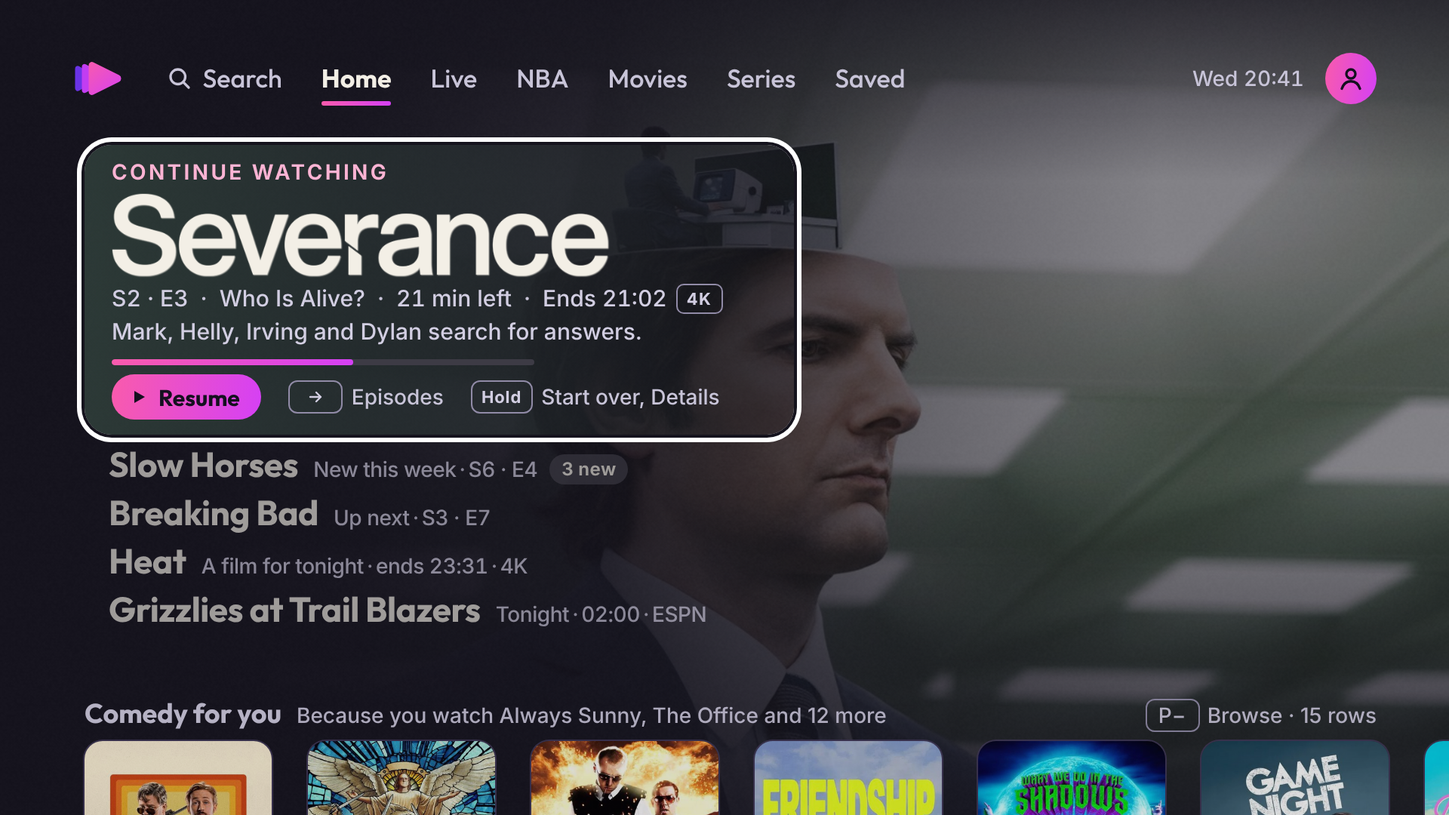
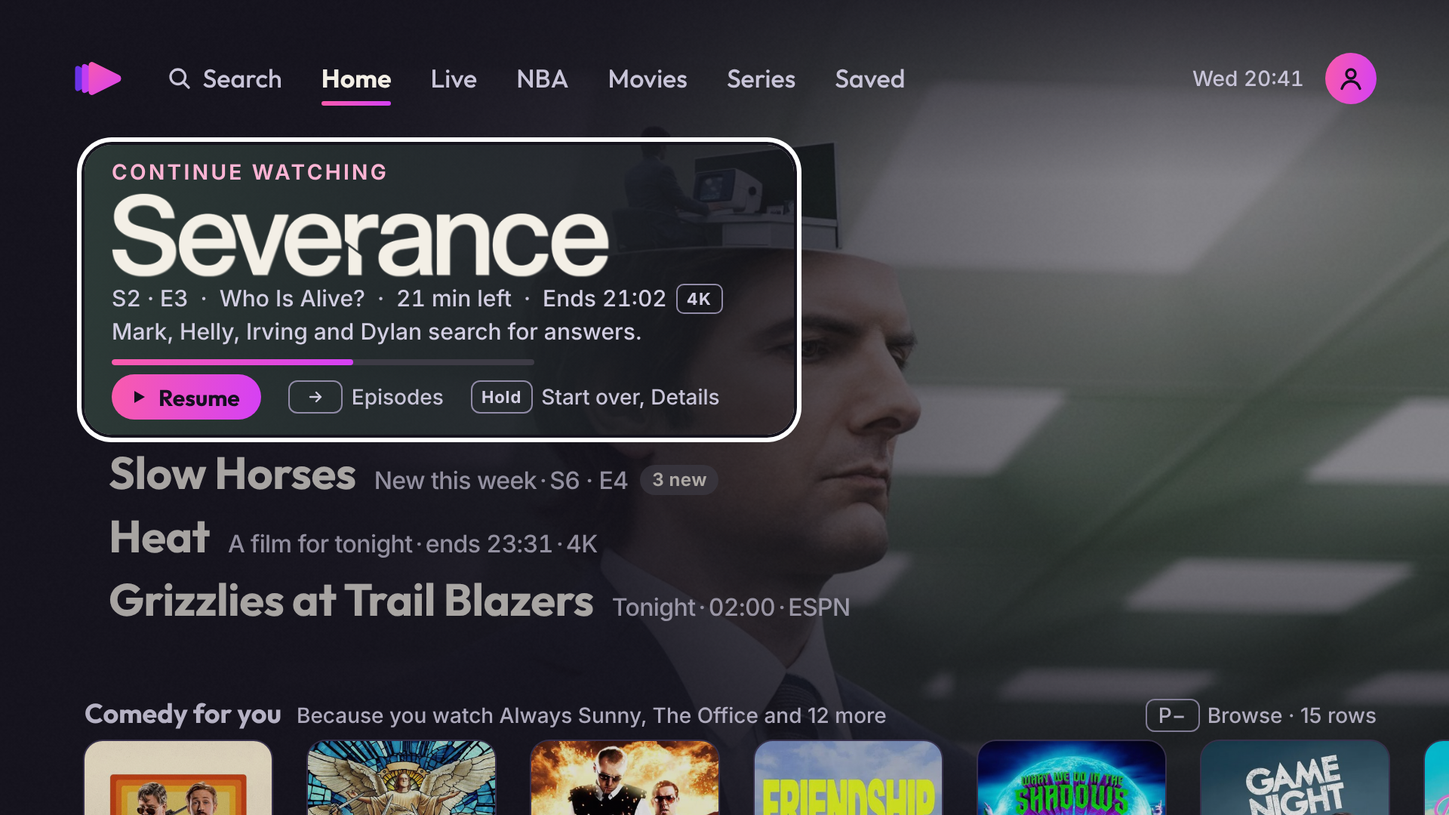
Home final v1.1: the lineup is three big lines (four on a game day), the lit one open as its card in place; the rows are 3 Downs away (4 on a game day, 1 with P-), the counts before and after in the SPEC

Changed region(s): [[0.0625, 0.55, 0.5938, 0.7639]]

diff --git a/design/ui-v1/home-final/tools/build.js b/design/ui-v1/home-final/tools/build.js
@@ -49,7 +49,6 @@ const firstPeek = (title, sub, cards) => `<div class="peek first"><div class="rt
 const LINES = (lit, cardHtml) => [
   ['Severance', `Continue${dot}S2 · E3${dot}21 min left`],
   ['Slow Horses', `New this week${dot}S6 · E4<span class="count">3 new</span>`],
-  ['Breaking Bad', `Up next${dot}S3 · E7`],
   ['Heat', `A film for tonight${dot}ends ${ends('20:41', 170)}${dot}4K`],
   ['Grizzlies at Trail Blazers', `Tonight${dot}02:00${dot}ESPN`],
 ].map(([n, f], i) => (i === lit ? cardHtml : line(n, f))).join('');
@@ -120,9 +119,9 @@ const gameNight = () => head('Home, game night', `
   meta: `<span>On now</span>${dot}<span>ESPN</span><span class="badge">4K</span>${dot}${EYE}<span>Score hidden</span>`,
   line: '3rd in the West · 3 in a row · Morant 27.8 · as of tip-off',
   hint: `<span class="pill">${PLAY}Watch live</span><span>${ARROW_R}From tip-off</span><span><span class="k">Hold</span>Reveal, more</span>` }) +
-`${line('Severance', `Continue${dot}S2 · E3${dot}21 min left`)}${line('Slow Horses', `New this week${dot}S6 · E4<span class="count">3 new</span>`)}${line('It’s Always Sunny', `Short${dot}S18 · E10${dot}25 min`)}${line('Nuggets at Thunder', `Also live${dot}Prime Video`)}</div>
+`${line('Severance', `Continue${dot}S2 · E3${dot}21 min left`)}${line('Slow Horses', `New this week${dot}S6 · E4<span class="count">3 new</span>`)}${line('It’s Always Sunny', `Short${dot}S18 · E10${dot}25 min`)}</div>
 ` +
-firstPeek('Tonight in the NBA', '6 games · 1 live · 2 final · 3 later', [gameCard({ mine: true, ta: '#5D76A9', st: 'Your team · live', a: 'mem', an: 'Grizzlies', sep: 'at', h: 'por', hn: 'Blazers', ch: 'ESPN · 4K', pl: 'Score hidden' }), gameCard({ ta: '#FEC524', st: 'Live', a: 'den', an: 'Nuggets', sep: 'at', h: 'okc', hn: 'Thunder', ch: 'Prime Video', pl: '3RD' }), gameCard({ ta: '#BA9653', st: 'Final', a: 'bos', an: 'Celtics', sep: 'at', h: 'ny', hn: 'Knicks', ch: '', pl: '112 – 104' })]) + foot;
+firstPeek('Tonight in the NBA', '6 games · 2 live · 2 final · 2 later', [gameCard({ mine: true, ta: '#5D76A9', st: 'Your team · live', a: 'mem', an: 'Grizzlies', sep: 'at', h: 'por', hn: 'Blazers', ch: 'ESPN · 4K', pl: 'Score hidden' }), gameCard({ ta: '#FEC524', st: 'Live', a: 'den', an: 'Nuggets', sep: 'at', h: 'okc', hn: 'Thunder', ch: 'Prime Video', pl: '3RD' }), gameCard({ ta: '#BA9653', st: 'Final', a: 'bos', an: 'Celtics', sep: 'at', h: 'ny', hn: 'Knicks', ch: '', pl: '112 – 104' })]) + foot;
 
 // ---------------------------------------------------------------- 5. the library: Movies, Comedy, scrolled deep (#313 is the first cell of its row: 313 = 52 x 6 + 1)
 const LIB = [['stepbrothers', 'Step Brothers', '2008 · 1h 38m'], ['superbad', 'Superbad', '2007 · 1h 53m'], ['lebowski', 'The Big Lebowski', '1998 · 1h 57m'], ['holdovers', 'The Holdovers', '2023 · 2h 13m'], ['popstar', 'Popstar', '2016 · 1h 27m'], ['officespace', 'Office Space', '1999 · 1h 29m'],
@@ -140,7 +139,7 @@ const coldStart = () => head('Home, first evening: no history yet') + `<div clas
   meta: `<span>2026</span>${dot}<span>2h 37m</span>${dot}<span>Ends ${ends('20:41', 157)}</span>${dot}<span>IMDb 8.2</span>`,
   line: 'A science teacher wakes up alone on a spaceship. As his memory returns, he uncovers an impossible task.',
   hint: `<span class="pill noicon">Details</span><span>${ARROW_R}More popular films</span><span><span class="k">Hold</span>Play now, Save</span>` }) +
-`${line('Grizzlies at Trail Blazers', `Your team${dot}Tonight 02:00${dot}ESPN`)}${line('Kastljós', `On now${dot}RÚV${dot}until 20:55`)}${line('Pick what you like', `3 genres start your rows`)}</div>
+`${line('Grizzlies at Trail Blazers', `Your team${dot}Tonight 02:00${dot}ESPN`)}${line('Pick what you like', `3 genres start your rows`)}</div>
 ` +
 firstPeek('Popular films', 'Popular on Cinemeta', ['toystory5', 'weapons', 'superman', 'onebattle', 'sinners', 'f1', 'mickey17'].map((f) => poster(f))) + foot;
 
@@ -200,12 +199,12 @@ peek('Comedy for you', 'Because you watch Always Sunny, The Office and 12 more',
 const pages = { '01-evening.html': evening(), '02-rows-comedy.html': rowsComedy(), '03-rows-blend.html': rowsBlend(), '04-game-night.html': gameNight(), '05-library-comedy.html': library(), '06-cold-start.html': coldStart(), '07-rows-channels.html': channel(), '08-loading-missing-art.html': loading(), '09-rows-continue.html': rowsContinue(), '10-rows-nba.html': rowsNba() };
 for (const [f, html] of Object.entries(pages)) fs.writeFileSync(path.join(root, f), html);
 fs.writeFileSync(path.join(root, 'tools', 'pages.json'), JSON.stringify([
-  { file: '01-evening.html', title: 'A normal evening', note: 'Wed 20:41 · the Marquee: five lines (the game is tonight), the lit line open as its card in place, the first row peeking; P− jumps to the rows' },
+  { file: '01-evening.html', title: 'A normal evening', note: 'Wed 20:41 · the Marquee: four big lines (the game is tonight), the lit one open as its card in place, the first row peeking; 4 Downs or P− reach the rows' },
   { file: '02-rows-comedy.html', title: 'The rows: Comedy for you', note: 'Down from the lineup · films and series together · the picture answers the poster · the row index on its backing' },
   { file: '03-rows-blend.html', title: 'The rows: Anime comedy', note: 'A blend row: two of his genres together, named plainly, marked New row for a week' },
   { file: '04-game-night.html', title: 'Game night', note: 'Thu 03:12 · Grizzlies at Trail Blazers live, shield on: ON NOW, no clock, records as of tip-off' },
   { file: '05-library-comedy.html', title: 'Movies: Comedy, deep', note: 'The add-on library: one long Cinemeta scroll per genre, #313 of 3,000+' },
-  { file: '06-cold-start.html', title: 'First evening', note: 'No history: a popular pick (Details), the team, the channel, Pick what you like' },
+  { file: '06-cold-start.html', title: 'First evening', note: 'No history: a popular pick (Details), the team, Pick what you like; three lines' },
   { file: '07-rows-channels.html', title: 'The rows: Channels', note: 'A channel has no picture: its logo on a flat field, the programme’s progress and what is next; wide channel cards' },
   { file: '08-loading-missing-art.html', title: 'Missing art', note: 'A title without a backdrop (its poster upright on a flat ground), posters loading, a title with no poster' },
   { file: '09-rows-continue.html', title: 'The rows: Your shows', note: 'Continue watching and new episodes in one wide-card row (they are also the Marquee’s lines); New this year peeks' },

diff --git a/design/ui-v1/home-final/home-final.css b/design/ui-v1/home-final/home-final.css
@@ -40,11 +40,11 @@ html, body { margin: 0; width: 960px; height: 540px; overflow: hidden; backgroun
 .count { display: inline-flex; align-items: center; height: 20px; padding: 0 8px; border-radius: 999px; background: var(--a-surface-2); color: var(--a-text-1); font: 650 12px/1 var(--a-font-text); margin-left: 8px; letter-spacing: .02em; }
 .dot { color: var(--a-text-3); margin: 0 2px; }
 
-/* ---- the lineup: lines in fixed 32 px slots; the lit line opens into its card in place (fixed 192 px, so every press moves the lines below by the same 168 px, animated with a 200 ms transform) ---- */
+/* ---- the lineup: 3 lines (4 on a game day) in 42 px slots; the lit line opens into its card in place (fixed 192 px + 4 px margins, so every press moves the lines below by the same 158 px, animated with a 200 ms transform) ---- */
 .lineup { left: 56px; top: 92px; width: 470px; display: flex; flex-direction: column; gap: 0; }
-.e { position: relative; height: 32px; box-sizing: border-box; padding: 2px 16px; border-radius: 10px; opacity: .62; display: flex; align-items: center; }
-.e .t { font: 700 23px/26px var(--a-font-display); color: var(--a-text-1); white-space: nowrap; letter-spacing: -.01em; display: flex; align-items: baseline; }
-.e .t small { font: 500 14px/18px var(--a-font-text); color: var(--a-text-2); margin-left: 10px; font-variant-numeric: tabular-nums; display: inline-flex; align-items: center; }
+.e { position: relative; height: 42px; box-sizing: border-box; padding: 2px 16px; border-radius: 10px; opacity: .66; display: flex; align-items: center; }
+.e .t { font: 700 30px/34px var(--a-font-display); color: var(--a-text-1); white-space: nowrap; letter-spacing: -.01em; display: flex; align-items: baseline; }
+.e .t small { font: 500 16px/20px var(--a-font-text); color: var(--a-text-2); margin-left: 12px; font-variant-numeric: tabular-nums; display: inline-flex; align-items: center; }
 .e.on { opacity: 1; display: block; height: 192px; margin: 4px 0; padding: 10px 18px; border-radius: 18px; box-shadow: var(--a-focus-ring); background: linear-gradient(90deg, var(--ambt, rgba(21,19,29,.45)), rgba(21,19,29,.22)); overflow: hidden; }
 .e.on .ey { font: 650 14px/16px var(--a-font-text); letter-spacing: .12em; text-transform: uppercase; color: var(--a-pink-text); display: flex; align-items: center; gap: 10px; white-space: nowrap; }
 .e.on .logo { display: block; height: 56px; max-width: 340px; width: auto; object-fit: contain; object-position: left center; margin: 6px 0 4px; }

diff --git a/design/ui-v1/home-final/04-game-night.html b/design/ui-v1/home-final/04-game-night.html
@@ -32,9 +32,8 @@
   <div class="e"><div class="t">Severance<small>Continue<span class="dot">·</span>S2 · E3<span class="dot">·</span>21 min left</small></div></div>
   <div class="e"><div class="t">Slow Horses<small>New this week<span class="dot">·</span>S6 · E4<span class="count">3 new</span></small></div></div>
   <div class="e"><div class="t">It’s Always Sunny<small>Short<span class="dot">·</span>S18 · E10<span class="dot">·</span>25 min</small></div></div>
-  <div class="e"><div class="t">Nuggets at Thunder<small>Also live<span class="dot">·</span>Prime Video</small></div></div>
 </div>
-<div class="peek first"><div class="rt">Tonight in the NBA<span>6 games · 1 live · 2 final · 3 later</span><span class="pk"><span class="k">P−</span>Browse · 15 rows</span></div><div class="cards"><div class="gc" style="--ta:#5D76A9"><div class="ed"></div><div class="st mine">Your team · live</div>
+<div class="peek first"><div class="rt">Tonight in the NBA<span>6 games · 2 live · 2 final · 2 later</span><span class="pk"><span class="k">P−</span>Browse · 15 rows</span></div><div class="cards"><div class="gc" style="--ta:#5D76A9"><div class="ed"></div><div class="st mine">Your team · live</div>
   <div class="tm"><span class="cr"><img src="art/mem.png" alt=""></span><b>Grizzlies</b><span class="vs">at</span><span class="cr"><img src="art/por.png" alt=""></span><b>Blazers</b></div>
   <div class="ch">ESPN · 4K</div><div class="pl tip">Score hidden</div></div><div class="gc" style="--ta:#FEC524"><div class="ed"></div><div class="st">Live</div>
   <div class="tm"><span class="cr"><img src="art/den.png" alt=""></span><b>Nuggets</b><span class="vs">at</span><span class="cr"><img src="art/okc.png" alt=""></span><b>Thunder</b></div>

diff --git a/design/ui-v1/home-final/06-cold-start.html b/design/ui-v1/home-final/06-cold-start.html
@@ -21,7 +21,6 @@
   <div class="hint"><span class="pill noicon">Details</span><span><span class="k"><svg viewBox="0 0 24 24"><path d="M5 12h14M13 6l6 6-6 6"/></svg></span>More popular films</span><span><span class="k">Hold</span>Play now, Save</span></div>
   </div>
   <div class="e"><div class="t">Grizzlies at Trail Blazers<small>Your team<span class="dot">·</span>Tonight 02:00<span class="dot">·</span>ESPN</small></div></div>
-  <div class="e"><div class="t">Kastljós<small>On now<span class="dot">·</span>RÚV<span class="dot">·</span>until 20:55</small></div></div>
   <div class="e"><div class="t">Pick what you like<small>3 genres start your rows</small></div></div>
 </div>
 <div class="peek first"><div class="rt">Popular films<span>Popular on Cinemeta</span><span class="pk"><span class="k">P−</span>Browse · 15 rows</span></div><div class="cards"><div class="poster"><img src="art/toystory5-poster.jpg" alt=""></div><div class="poster"><img src="art/weapons-poster.jpg" alt=""></div><div class="poster"><img src="art/superman-poster.jpg" alt=""></div><div class="poster"><img src="art/onebattle-poster.jpg" alt=""></div><div class="poster"><img src="art/sinners-poster.jpg" alt=""></div><div class="poster"><img src="art/f1-poster.jpg" alt=""></div><div class="poster"><img src="art/mickey17-poster.jpg" alt=""></div></div></div>

diff --git a/design/ui-v1/home-final/01-evening.html b/design/ui-v1/home-final/01-evening.html
@@ -20,7 +20,6 @@
   <div class="hint"><span class="pill"><svg viewBox="0 0 24 24"><path d="M6 4l14 8-14 8z"/></svg>Resume</span><span><span class="k"><svg viewBox="0 0 24 24"><path d="M5 12h14M13 6l6 6-6 6"/></svg></span>Episodes</span><span><span class="k">Hold</span>Start over, Details</span></div>
   </div>
   <div class="e"><div class="t">Slow Horses<small>New this week<span class="dot">·</span>S6 · E4<span class="count">3 new</span></small></div></div>
-  <div class="e"><div class="t">Breaking Bad<small>Up next<span class="dot">·</span>S3 · E7</small></div></div>
   <div class="e"><div class="t">Heat<small>A film for tonight<span class="dot">·</span>ends 23:31<span class="dot">·</span>4K</small></div></div>
   <div class="e"><div class="t">Grizzlies at Trail Blazers<small>Tonight<span class="dot">·</span>02:00<span class="dot">·</span>ESPN</small></div></div>
 </div>

diff --git a/design/ui-v1/home-final/SPEC.md b/design/ui-v1/home-final/SPEC.md
@@ -71,7 +71,7 @@ title by 12 px.
 
 | Point | Answer |
 |---|---|
-| Browsing was 7 presses down | **The lineup is 4 lines, 5 on a game day** (Continue, New in your shows, Up next, A film for tonight, and the game when it is today); the `On now` channel line is gone (digits and the Live tab do it in 1–4 presses; the Channels row stays). **The first row peeks on the first screen** (its title and the top 78 px of its posters, at 85 %), and **row 1 is a browsing row** (`Comedy for you`; Continue watching and new episodes are the Marquee's lines and one wide `Your shows` row lower down). **P− jumps to the rows, P+ back to the Marquee** (the app already maps `ChannelDown` / `ChannelUp`, keycodes 166 / 167); the peek's title carries `P− Browse · 15 rows`. Browsing is now 5 presses (4 Downs past the lines on a game day, then the peek) or 1 with P−; resume and the game stay at 1 |
+| Browsing was 7 presses down | **The lineup is 3 lines, 4 on a game day, each bigger** (the owner: "less options on the top thing and maybe just make it bigger"): Outfit 700 30 px in 42 px slots. The lines that earn the place: **Continue** (the thing he is in: 1 press to resume, the most used line), **New in your shows** (the next most common reason to open the app; `3 new` says there is more behind Right), **one pick for tonight** (`A film for tonight` before 23:00, `Something short` after; the one place the app chooses for him, with its reason and end time), and **the game** on a game day (first while live). Dropped: `Up next` (the next episode of a show he is between episodes of lives in the `Your shows` row and is one Right from the Continue line's Episodes) and the `On now` channel line (digits and the Live tab do it in 1–4 presses; the Channels row stays). **The first row peeks on the first screen** (its title and the top 78 px of its posters, at 85 %), and **row 1 is a browsing row** (`Comedy for you`; Continue watching and new episodes are the Marquee's lines and one wide `Your shows` row lower down). **P− jumps to the rows, P+ back to the Marquee** (the app already maps `ChannelDown` / `ChannelUp`, keycodes 166 / 167); the peek's title carries `P− Browse · 15 rows`. Browsing is now 5 presses (4 Downs past the lines on a game day, then the peek) or 1 with P−; resume and the game stay at 1 |
 | Back from the rows | Back goes to row 1 first, a second Back to the Marquee's first line, a third to the tab (section 4) |
 | The Tonight strip | Dropped; the rows screen shows the normal top bar, so Search and Movies are one Up from row 1 |
 | The focused title weaker than the unfocused | The unfocused lines are Outfit 700 23 at 62 %; the lit line is 26 at 100 % with the ring; the logo ink is 56 px in the plate |
@@ -108,9 +108,8 @@ old anime rule; the source research decides what the engine reads, and the check
 
 ## 0. Decisions (each with its reason, in plain words)
 
-1. **Home has two halves and one key joins them.** The top is the Marquee: four lines down the left (what you are
-   in the middle of, what is new in your shows, what is up next, a film that fits before bed; a fifth, the game,
-   on a game day) and one full-screen picture that answers the line you are on. The first browsing row peeks at
+1. **Home has two halves and one key joins them.** The top is the Marquee: three big lines down the left (what
+   you are in the middle of, what is new in your shows, one pick for tonight; a fourth, the game, on a game day) and one full-screen picture that answers the line you are on. The first browsing row peeks at
    the bottom of that screen, and Down past the last line (or **P−** from anywhere) is the browsing half: rows
    like Netflix (Popular, New, Top rated, genres) and rows built from what he watches (`Comedy for you`, `Anime
    comedy`, `Crime dramas`, `Because you watched Always Sunny`). *Why:* the owner asked for both: "the continue
@@ -325,12 +324,12 @@ are why Top rated, genre rows and anime now read TMDB (section 6a), with the Cin
 
 | Mock | State |
 |---|---|
-| `01-evening` | Wed 20:41, a game day (tip-off 02:00). The Marquee: five lines, Severance's line open as its card in place: `CONTINUE WATCHING`, the Severance logo (56 px of ink), `S2 · E3 · Who Is Alive? · 21 min left · Ends 21:02 · 4K`, the episode's line, the bar, `Resume` pill · `→ Episodes` · `Hold Start over, Details`; the other lines Slow Horses (`New this week · S6 · E4 · 3 new`), Breaking Bad (`Up next · S3 · E7`), Heat (`A film for tonight · ends 23:31 · 4K`), Grizzlies at Trail Blazers (`Tonight · 02:00 · ESPN`); the first row `Comedy for you` peeking at the bottom with `P− Browse · 15 rows` |
+| `01-evening` | Wed 20:41, a game day (tip-off 02:00). The Marquee: four big lines, Severance's line open as its card in place: `CONTINUE WATCHING`, the Severance logo (56 px of ink), `S2 · E3 · Who Is Alive? · 21 min left · Ends 21:02 · 4K`, the episode's line, the bar, `Resume` pill · `→ Episodes` · `Hold Start over, Details`; the other lines Slow Horses (`New this week · S6 · E4 · 3 new`), Heat (`A film for tonight · ends 23:31 · 4K`), Grizzlies at Trail Blazers (`Tonight · 02:00 · ESPN`); the first row `Comedy for you` peeking at the bottom with `P− Browse · 15 rows` |
 | `02-rows-comedy` | Down from the lineup (or P−): the top bar, the picture answering The Nice Guys (IMDb 7.4), the row index on its backing, row 1 `Comedy for you · Because you watch Always Sunny, The Office and 12 more` (films and series together), `Popular films` peeking |
 | `03-rows-blend` | the blend row `Anime comedy · New row · Two things you watch, together · anime + comedy`, Spy x Family lit; `Because you watched Always Sunny` peeking with TMDB's real recommendations (Platonic, Peep Show, Friday Night Dinner, Great News, 'Til Death) |
-| `04-game-night` | Thu 03:12, Grizzlies at Trail Blazers live, shield on: the two fields, `ON NOW` on the chip, `Score hidden`, both records `as of tip-off`, the fan line `as of tip-off`, `Watch live` · `→ From tip-off` · `Hold Reveal, more`; five lines, the game's line open as its card (the Sharp plate); `Tonight in the NBA` peeking with the hidden game's card reading `Score hidden`; the NBA tab carries no second pill |
+| `04-game-night` | Thu 03:12, Grizzlies at Trail Blazers live, shield on: the two fields, `ON NOW` on the chip, `Score hidden`, both records `as of tip-off`, the fan line `as of tip-off`, `Watch live` · `→ From tip-off` · `Hold Reveal, more`; four lines, the game's line open as its card (the Sharp plate), then Severance, Slow Horses and a short episode; `Tonight in the NBA` peeking with the hidden game's card reading `Score hidden`; the NBA tab carries no second pill |
 | `05-library-comedy` | the Movies tab, Comedy, Popular, scrolled to #313 of 3,000+ (the context line in its band, the scroll bubble, six posters a row, the focused one's title on its own plate) |
-| `06-cold-start` | a new user, no history: `Project Hail Mary · Popular on Cinemeta · a pick for tonight` lit (`Details` the primary, no ▶), `Grizzlies at Trail Blazers · Your team`, `Kastljós · On now` (a habit line, see section 3), `Pick what you like · 3 genres start your rows`; `Popular films` peeking |
+| `06-cold-start` | a new user, no history: `Project Hail Mary · Popular on Cinemeta · a pick for tonight` lit (`Details` the primary, no ▶), `Grizzlies at Trail Blazers · Your team`, `Pick what you like · 3 genres start your rows` (three lines); `Popular films` peeking |
 | `07-rows-channels` | the `Channels` row: a channel has no picture, so the area shows the channel's logo on a flat field in the logo's colour; the column has `Kastljós · RÚV · 1 · 20:35 – 20:55 · 14 min left · HD` and `Next · Fréttir 20:55 …`; wide channel cards (`RÚV · 1 · Kastljós · until 20:55`); `Tune` · `Hold Save channel, Open in the guide` |
 | `08-loading-missing-art` | the row `Á íslensku · 1,451 films · 107 series · TMDB` (the verified totals): the lit title drawn as if it had no backdrop (its poster upright on a flat ground) and no logo (its name in Outfit), real Icelandic series from TMDB's list (Trapped, Katla, Black Sands, The Valhalla Murders), two posters still loading (flat blocks with the name), a title with no poster (`No poster` and the name on surface-1; the name is a stand-in for the state) |
 | `09-rows-continue` | the `Your shows` row: wide cards with the show's logo, the episode and the time left (Breaking Bad, The Bear, Andor, Slow Horses `new · 3`, The Last of Us); `New this year` peeking |
@@ -362,7 +361,7 @@ Other states (no mock, the rules):
 |---|---|
 | Picture | one `<img>` 960 × 540, `object-fit: cover`, `object-position` per title (default 70 % 40 %; the subject in the right half); over it the brightness cap (bg-0 at 14 %), the left scrim (bg-0 to clear by x 770), the bottom scrim (220 px), the top scrim (120 px, for the bar), grain at 50 %; the glow `.hf-amb`: a flat radial of the art's colour at 55 % behind the lineup |
 | Top bar | the app's, y 32–72: mark, Search, Home, Live, NBA, Movies, Series, Saved, the clock, the avatar. While the game is the lit line the NBA tab carries **no** pill |
-| Lineup | x 56, y 92, 470 wide, a `[data-col]`; lines are 32 px slots and the lit line is its **card, 192 px, opened in place** (+ 4 px margins), so the lines under the lit one sit 168 px lower than they would and every press moves them by that same distance with a 200 ms `translateY` (the lines are one layer each; nothing else lays out). Four lines (Continue, New in your shows, Up next, A film for tonight), five on a game day (the game first when it is live or within 3 h of tip-off, else last); the `On now` channel line only as a habit line (a channel he tunes at the same hour on 3 of the last 7 days). Unfocused lines Outfit 700 23/26 chalk at 62 % + the facts in Inter 500 14 (`New this week · S6 · E4`), padding 2/16; the count chip (`3 new`, surface-2, 12 px 650) after the facts. The lit line is replaced by its card (next row) |
+| Lineup | x 56, y 92, 470 wide, a `[data-col]`; lines are **42 px slots** and the lit line is its **card, 192 px, opened in place** (+ 4 px margins), so the lines under the lit one sit 158 px lower than they would and every press moves them by that same distance with a 200 ms `translateY` (the lines are one layer each; nothing else lays out). **Three lines** (Continue, New in your shows, the pick for tonight), **four on a game day** (the game first when it is live or within 3 h of tip-off, else last). Unfocused lines **Outfit 700 30/34** chalk at 66 % + the facts in Inter 500 16 (`New this week · S6 · E4`), padding 2/16; the count chip (`3 new`, surface-2, 12 px 650) after the facts. The lit line is replaced by its card (next row) |
 | The lit line's card | **in the lit line's slot, 470 × 192**, radius 18, the ring (5 px white, 2 px canvas gap), the glow colour at 45 % to canvas at 22 %: eyebrow 14 px caps pink-text (`CONTINUE WATCHING`, `NEW THIS WEEK`, `UP NEXT`, `A FILM FOR TONIGHT`, `GAME NIGHT`); the **logo, 56 px of ink, 340 wide at most** (Cinemeta `logo` cropped to its alpha box when fetched, chalk when black), else the name Outfit 700 34/40 (30 when longer than 18 characters); meta 15/20 text-2 with badges (section 12's shortening rule); the title's line 15/20 (one line, ellipsis at 434 px); the bar 280 × 4; the hint row at the plate's bottom: the **pill** (gradient, 30 high, ink, Outfit 700 15, the verb; a ▶ only on play verbs) · `→` key cap + word · `Hold` + words |
 | The peek | y 462: the first row's title (Outfit 700 18 text-2) with its reason and, at the right (ending at x 912), `P− Browse · 15 rows`; the top 78 px of its cards at 85 % (art may bleed) |
 | Game night | the fields: away x 0 to the split, home from the split, the split at 12° at 79 % (x 758 at the top); each field the team's real primary darkened for 4.5:1 chalk (`#12173F` Memphis navy with the Beale Street blue edge; Portland `#B9302F` with its black edge); the left shade (canvas to clear by x 576) under the lineup; crests 168 in the neutral disc at x 540 and x 744, y 126, names Outfit 700 24 and the record 14 under; the score group at x 524, y 392: the chip (gradient, 56 high, 12°, `ON NOW` Barlow 800 italic 34) and the plate (`Score hidden` with the eye-off) ending before x 912; the lit line is the Sharp plate (12°) |
@@ -414,9 +413,19 @@ the first line lit (where OK resumes), a third Back to the tab.
 **The library.** As UI-SPEC 5.5 (Left / Right / Up / Down in the grid, OK Details, Hold OK Save · Mark watched ·
 Details, CH± pages, Back scrolls to the top then leaves). Digits on Home tune a channel number as in Live.
 
-Press counts: resume 1; the game live 1 (from tip-off 2); the film the app picked 4; **the first browsing row 5
-on a game day (4 on other nights), or 1 with P−**; `Comedy for you`'s first poster 5 / 1, its title page +1; a
-channel: its number (1–3 digits) or the Live tab in 4; any named row: P− then its position in the index.
+Press counts: resume 1; the game live 1 (from tip-off 2); the pick for tonight 3 (Down, Down, OK); **the first
+browsing row 3 on a normal night, 4 on a game day, or 1 with P−**; `Comedy for you`'s first poster the same, its
+title page +1; a channel: its number (1–3 digits) or the Live tab in 4; any named row: P− then its position in the
+index.
+
+From the top of Home to the first browsing row, counted from the first line lit (each Down past the last line lands
+on row 1):
+
+| Version | Lines | Presses (Down) | With P− |
+|---|---|---|---|
+| v1.0 (reviewed) | 6, and row 1 was a second Continue watching | 7 | – |
+| v1.1 first cut | 4 (5 on a game day) | 4 (5) | 1 |
+| **v1.1 (this)** | **3 (4 on a game day), bigger** | **3 (4)** | **1** |
 
 ---
 
